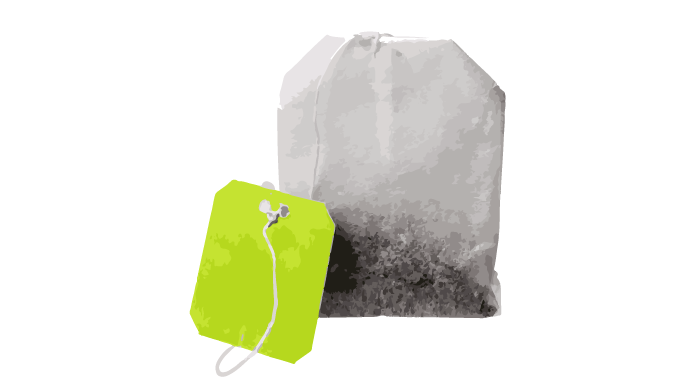
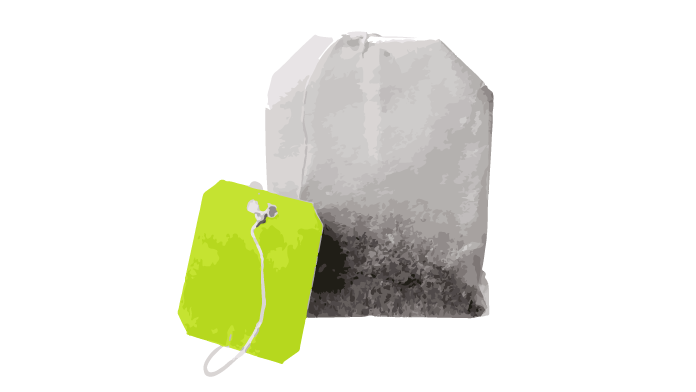
Update portfolio preview images and start about page

Changed region(s): [[0.2414, 0.0918, 0.7241, 0.9796], [0.4224, 0.0612, 0.5733, 0.1837], [0.5431, 0.2143, 0.5733, 0.2449]]

diff --git a/portfolio-site/about.html b/portfolio-site/about.html
@@ -12,6 +12,7 @@
   <link href="https://fonts.googleapis.com/css?family=Open+Sans&display=swap" rel="stylesheet">
   <link rel="stylesheet" href="./styles/main.css">
   <link rel="stylesheet" href="./styles/header.css">
+  <link rel="stylesheet" href="./styles/about.css">
 </head>
 
 <body>
@@ -23,6 +24,15 @@
             <a class="active" href="about.html">About</a>
             <a href="resume.html">Resume</a>
           </div>
+      </div>
+      <div class="about-container">
+        <div class="about-column">
+          <h1>I'm Ezra</h1>
+          Lorem ipsum dolor sit amet, consectetur adipiscing elit. Cras mattis felis vitae est maximus, ac cursus nunc porta. Nunc dignissim tempus tortor id sollicitudin. Donec nulla elit, facilisis vitae est sit amet, ultrices malesuada tortor. Duis metus leo, dignissim eget vehicula id, hendrerit ac ligula. Integer interdum efficitur mi, eget tristique nunc fringilla ac. Proin vitae tortor eget metus porttitor congue semper eget quam. Curabitur euismod tortor nec tempus aliquam. Morbi viverra lacinia sem nec mollis. Sed ultrices enim lorem, quis suscipit est porta quis. Vestibulum sit amet mollis lectus. In ut lacus quis felis congue efficitur non a orci. Pellentesque habitant morbi tristique senectus et netus et malesuada fames ac turpis egestas. Etiam pretium vitae arcu ac interdum. Nam non sapien vel tortor lacinia malesuada eget quis leo. Vestibulum mollis nibh non sapien congue, vel scelerisque quam fringilla.
+        </div>
+        <div class="about-column">
+          <img src="images/ezra-marks-profile-photo.jpg">
+        </div>
       </div>
       <div class="footer"></div>
     </div>

diff --git a/portfolio-site/index.html b/portfolio-site/index.html
@@ -63,20 +63,6 @@
           </a>
         </div>
         <div class="portfolio-item"
-        id="node-interface">
-          <a href="portfolio/node-interface.html">
-            <div class="aspect-ratio-box">
-              <div class="hover-text">
-                <h2>Node Backyard Cottages</h2>
-                <h3>Web Design Concept | UI/UX</h3>
-              </div>
-              <div class="hover-graphic">
-
-              </div>
-            </div>
-          </a>
-        </div>
-        <div class="portfolio-item"
         id="personas-storyboarding">
           <a href="portfolio/personas-storyboarding.html">
             <div class="aspect-ratio-box">
@@ -87,6 +73,20 @@
                 <div class="hover-graphic">
                   
                 </div>
+            </div>
+          </a>
+        </div>
+        <div class="portfolio-item"
+        id="node-interface">
+          <a href="portfolio/node-interface.html">
+            <div class="aspect-ratio-box">
+              <div class="hover-text">
+                <h2>Node Backyard Cottages</h2>
+                <h3>Web Design Concept | UI/UX</h3>
+              </div>
+              <div class="hover-graphic">
+                <img src="images/node-interface/cottage-preview.jpg"/>
+              </div>
             </div>
           </a>
         </div>

diff --git a/portfolio-site/styles/work.css b/portfolio-site/styles/work.css
@@ -52,6 +52,9 @@
     position: relative;
     overflow: hidden;
     background-color: inherit;
+    border-radius: inherit;
+    transition-property: opacity;
+    transition-duration: 0.2s;
 }
 
 /* on hover, show the contents of the container */
@@ -59,7 +62,6 @@
     opacity: 1;
     transition-property: opacity;
     transition-duration: 0.3s;
-    border-radius: inherit;
 }
 
 /* position & style text in the on-hover preview */
@@ -130,19 +132,23 @@
 }
 
 #node-interface {
-    background-color: #2adea8;
-    background-image: url("../images/node-interface/node-icon--white.png");
-    background-size: 50%;
+    background-color: #363333;
+    background-image: url("../images/node-interface/node-logo.png");
+    background-size: 80%;
 }
 
 #node-interface a {
-    background-color: inherit;
+    background-color: black;
     color: white;
 }
 
+#node-interface .hover-graphic {
+    opacity: 0.5;
+}
+
 #personas-storyboarding {
-    background-color: pink;
-    background-image: url("../images/personas-storyboarding/ratty-preview--poster.png");
+    background-color: rgb(39, 43, 80);
+    background-image: url("../images/personas-storyboarding/ratty-preview--white-filled.png");
 }
 
 #personas-storyboarding a {

diff --git a/portfolio-site/styles/about.css b/portfolio-site/styles/about.css
@@ -1,0 +1,22 @@
+.about-container {
+    /* padding-top: 100px; */
+    display: grid;
+    grid-template-columns: 1fr 1fr;
+}
+
+.about-column {
+    padding: 20px;
+}
+
+/* use single-column layout for small screens */
+@media screen and (max-width:768px) {
+    .about-container {
+        display: grid;
+        grid-template-columns: 1fr;
+    }
+
+    .about-column {
+        padding: 0px;
+        padding-bottom: 40px;
+    }
+}

diff --git a/portfolio-site/portfolio/rhythm-witch.html b/portfolio-site/portfolio/rhythm-witch.html
@@ -12,7 +12,6 @@
   <link href="https://fonts.googleapis.com/css?family=Open+Sans&display=swap" rel="stylesheet">
   <link rel="stylesheet" href="../styles/main.css">
   <link rel="stylesheet" href="../styles/header.css">
-  <link rel="stylesheet" href="../styles/portfolio-item.css">
   <link rel="stylesheet" href="../styles/rhythm-witch.css">
 
   <!-- scripts and assets for Unity WebGL build -->

diff --git a/portfolio-site/portfolio/node-interface.html b/portfolio-site/portfolio/node-interface.html
@@ -12,7 +12,6 @@
   <link href="https://fonts.googleapis.com/css?family=Open+Sans&display=swap" rel="stylesheet">
   <link rel="stylesheet" href="../styles/main.css">
   <link rel="stylesheet" href="../styles/header.css">
-  <link rel="stylesheet" href="../styles/portfolio-item.css">
   <link rel="stylesheet" href="../styles/node-interface.css">
 </head>
 

diff --git a/portfolio-site/portfolio/tea-shop.html b/portfolio-site/portfolio/tea-shop.html
@@ -12,7 +12,6 @@
   <link href="https://fonts.googleapis.com/css?family=Open+Sans&display=swap" rel="stylesheet">
   <link rel="stylesheet" href="../styles/main.css">
   <link rel="stylesheet" href="../styles/header.css">
-  <link rel="stylesheet" href="../styles/portfolio-item.css">
   <link rel="stylesheet" href="../styles/tea-shop.css">
 </head>
 

diff --git a/portfolio-site/portfolio/personas-storyboarding.html b/portfolio-site/portfolio/personas-storyboarding.html
@@ -12,7 +12,6 @@
   <link href="https://fonts.googleapis.com/css?family=Open+Sans&display=swap" rel="stylesheet">
   <link rel="stylesheet" href="../styles/main.css">
   <link rel="stylesheet" href="../styles/header.css">
-  <link rel="stylesheet" href="../styles/portfolio-item.css">
 </head>
 
 <body>

diff --git a/portfolio-site/styles/main.css b/portfolio-site/styles/main.css
@@ -8,6 +8,17 @@
     padding-top: 100px;
 }
 
+.article-container {
+    width: 750px;
+    max-width: 100%;
+    margin: 0 auto;
+}
+
+.article-container .title {
+    padding-top: 40px;
+    padding-bottom: 50px;
+}
+
 .footer {
     padding-top: 70px;
 }
